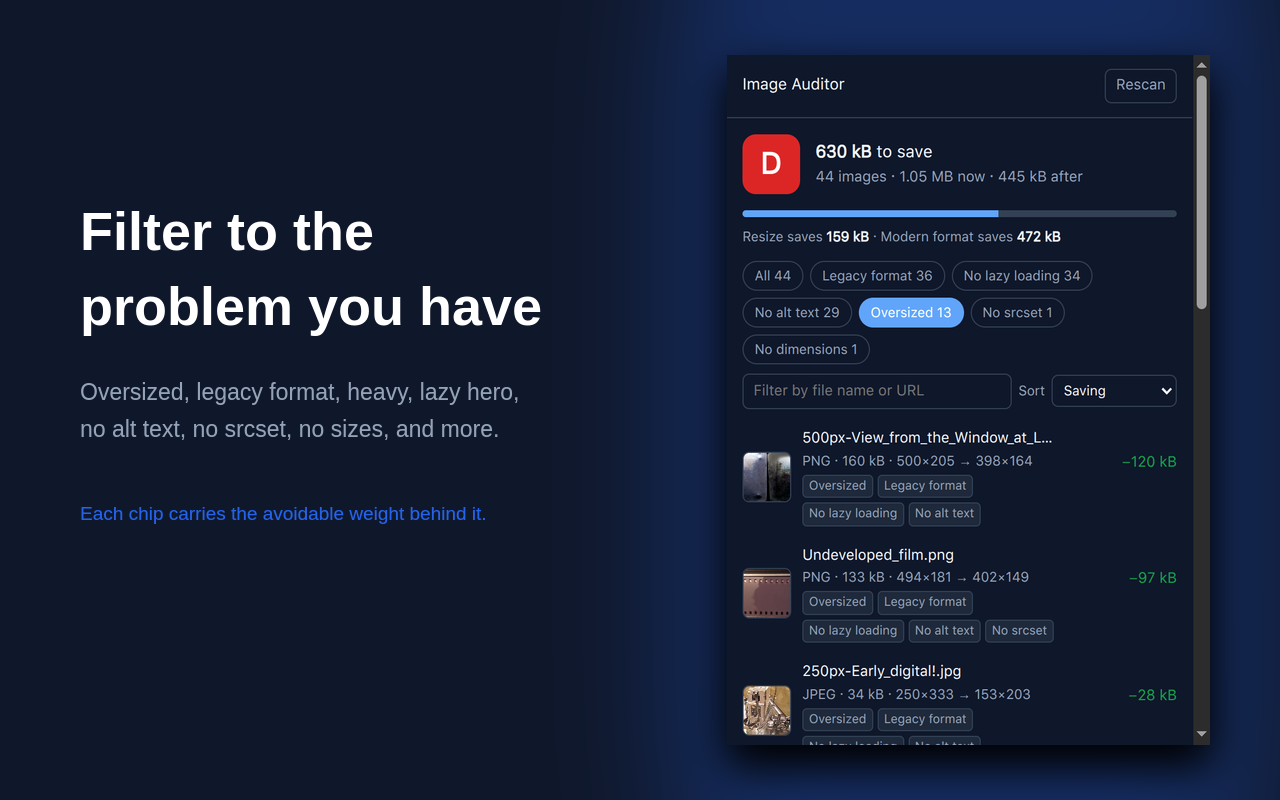
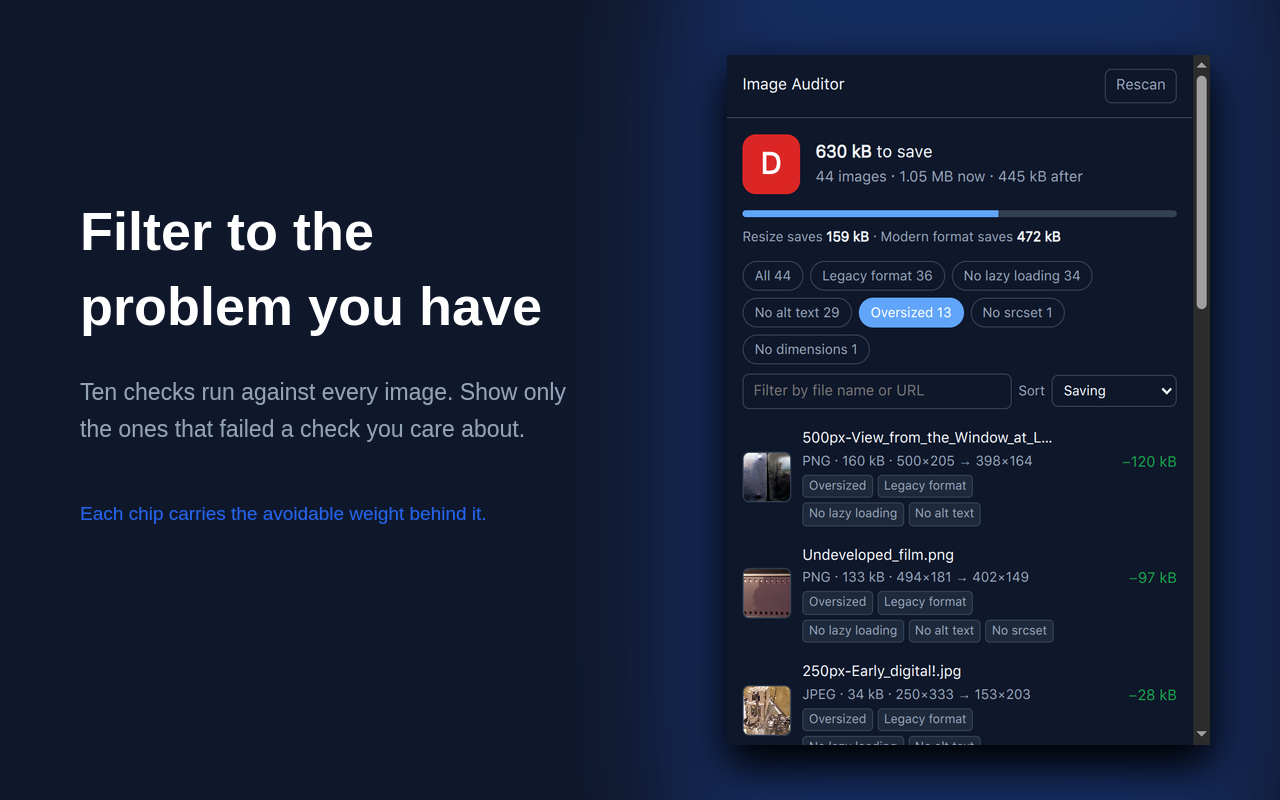
Rewrite the two lines the store read as keyword spam
The Web Store rejected the listing over one bullet:

  Legacy format — JPEG, PNG, GIF, or BMP, where AVIF or WebP is smaller.

Six format names in one comma-separated run reads as a keyword list to the
classifier, even though the whole description carried no other format mention.
The bullet now names the problem in prose instead.

The screenshot 3 caption had the same shape, a seven-item comma run, and the
policy covers promotional images as well as text. It now states the check count
instead. Ten is the real number of rules in lib/analyze.js.

No code and no package change. The listing text and one image are all that move.

Claude-Session: https://claude.ai/code/session_019cXDR7HhaRYFW1NQAjLtUu

Changed region(s): [[0.0625, 0.4688, 0.4375, 0.5625]]

diff --git a/store/LISTING.md b/store/LISTING.md
@@ -40,7 +40,7 @@ WHAT IT MEASURES
 WHAT IT FLAGS
 
 • Oversized — the source is far larger than the box that shows it.
-• Legacy format — JPEG, PNG, GIF, or BMP, where AVIF or WebP is smaller.
+• Legacy format — the file uses an older encoding, and a newer one would send the same picture in fewer bytes.
 • Heavy — one file is a large part of the page weight.
 • No lazy loading — the image starts below the fold and still loads at once.
 • Lazy hero — the image is visible at load, so loading="lazy" delays the LCP.
